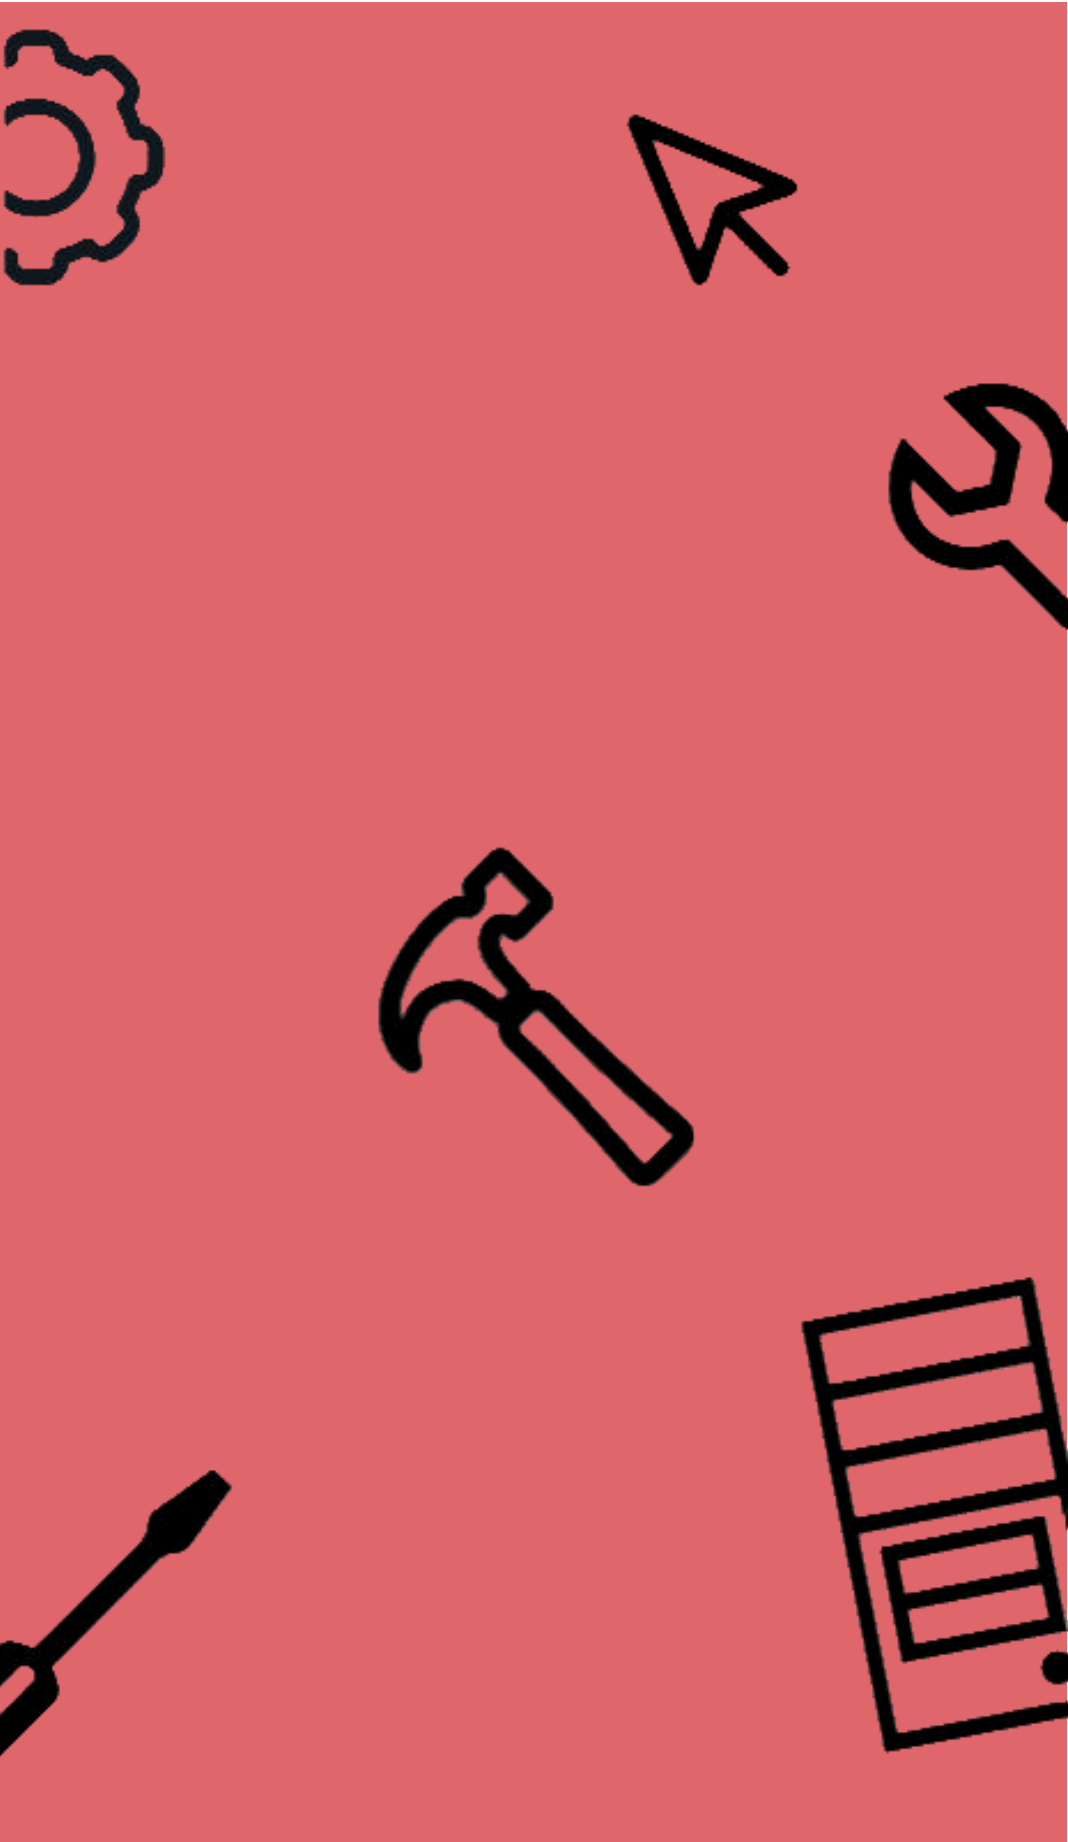
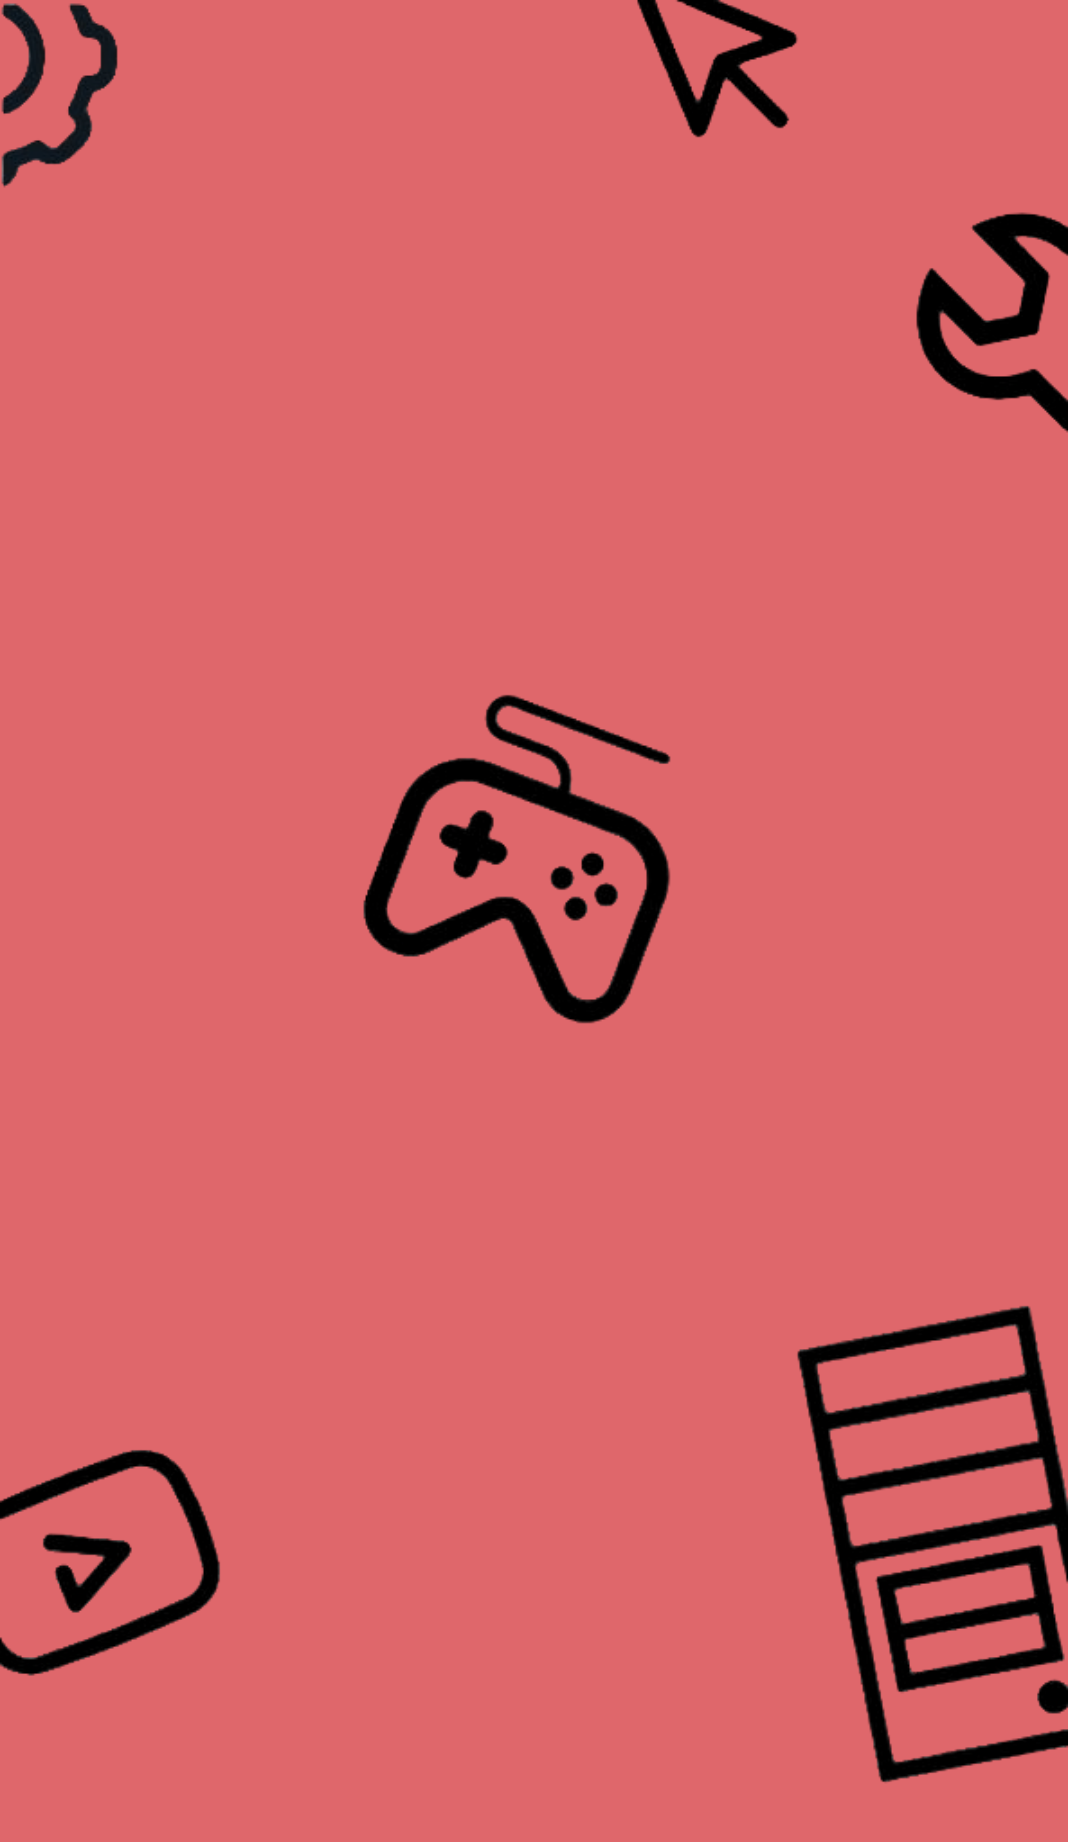
Atualizado imagem de fundo, base configurações da telaPecas adicionadas

diff --git a/Telas/RecomendadosTela.js b/Telas/RecomendadosTela.js
@@ -10,7 +10,56 @@ const RecomendadosTela = ({navigation}) => {
     <SafeAreaView style={styles.tela}>
       <SafeAreaView style={styles.conteudo}>
         <ImageBackground source={image} resizeMode="cover" style={styles.backgroundImage}>
-        <Text style={{color: 'white', fontSize: 45, marginLeft:'auto', marginRight: 'auto'}}>Recomendados</Text>
+        <Text style={{textAlign: 'center', color: 'black', fontSize: 22, marginLeft:'5%', marginRight: '5%', marginTop: 25, marginBottom: 10}}>Recomendamos esses 
+Pcs, agora basta escolher!</Text>
+          
+          <View style={{borderWidth: 5, margin: 5, backgroundColor: 'white', padding: 8}}>
+              <TouchableOpacity 
+              style={stylesRecomendados.configBarata}
+              onPress={() => navigation.navigate('Pecas')}
+              >
+                <Image source={require('../Imagens/menu.png')} style={{margin: 5,width: 110, height: '100%'}}></Image>
+                <View styles={stylesRecomendados.detalhesConfigBarata}>
+                  <Text>tipo</Text>
+                  <Text>descrição</Text>
+                  <Text>icone</Text>
+                  <Text>favoritar</Text>
+                </View>
+              </TouchableOpacity>
+          </View>
+
+          <View style={{borderWidth: 5, margin: 5, backgroundColor: 'white', padding: 8}}>
+              <TouchableOpacity 
+              style={stylesRecomendados.configMediana}
+              onPress={() => navigation.navigate('Pecas')}
+              >
+                <Image source={require('../Imagens/menu.png')} style={{margin: 5,width: 110, height: '100%'}}></Image>
+                <View styles={stylesRecomendados.detalhesConfigMediana}>
+                  <Text>tipo</Text>
+                  <Text>descrição</Text>
+                  <Text>icone</Text>
+                  <Text>favoritar</Text>
+                </View>
+              </TouchableOpacity>
+          </View>
+          
+          <View style={{borderWidth: 5, margin: 5, backgroundColor: 'white', padding: 8}}>
+              <TouchableOpacity 
+              style={stylesRecomendados.configDesempenho}
+              onPress={() => navigation.navigate('Pecas')}
+              >
+                <Image source={require('../Imagens/menu.png')} style={{margin: 5,width: 110, height: '100%'}}></Image>
+                <View styles={stylesRecomendados.detalhesConfigDesempenho}>
+                  <Text>tipo</Text>
+                  <Text>descrição</Text>
+                  <Text>icone</Text>
+                  <Text>favoritar</Text>
+                </View>
+              </TouchableOpacity>
+          </View>
+
+          
+
         </ImageBackground>
       </SafeAreaView>
 
@@ -21,16 +70,23 @@ const RecomendadosTela = ({navigation}) => {
           >
           <Text style={{color: 'black'}}>Voltar</Text>
         </TouchableOpacity>
-
-        <TouchableOpacity 
-          style={styles.botaoProximo}
-          onPress={() => navigation.navigate('Pecas')}
-          >
-          <Text style={{color: 'white'}}>Proxima</Text>
-        </TouchableOpacity>
       </SafeAreaView>
     </SafeAreaView>
 );
 }
 
 export default RecomendadosTela
+
+const stylesRecomendados = StyleSheet.create({
+  configBarata: {
+    flexDirection: 'row', 
+  },
+  
+  configMediana: {
+    flexDirection: 'row', 
+  },
+  
+  configDesempenho: {
+    flexDirection: 'row', 
+  },
+})

diff --git a/Constantes/Styles.js b/Constantes/Styles.js
@@ -17,7 +17,7 @@ export default StyleSheet.create({
     
     backgroundImage: {
         width: '100%', 
-        height: '96%'
+        height: '97%'
     },
 
     tela: {
@@ -32,27 +32,26 @@ export default StyleSheet.create({
     rodape: {
         flexDirection: 'row', 
         justifyContent: 'space-evenly',
-        padding: 8,
+        padding: 12,
         height: 80,
         width: '100%',
         backgroundColor: Cores.primary,
-        borderWidth: 2,
-        borderRadius: 5,
+        borderTopWidth: 2,
     }, 
     botaoVoltar:{
+        flexGrow: 1,
+        marginRight: 5,
+        backgroundColor: 'white',
+        justifyContent: "center",
         alignItems: "center",
         borderRadius: 7,
-        padding: 18,
-        flexGrow: 1,
-        backgroundColor: 'white',
-        marginRight: 5
+        borderWidth: 1,
     },
     botaoProximo:{
-        alignItems: "center",
-        borderRadius: 7,
-        padding: 18,
         flexGrow: 1,
-        backgroundColor: 'black'
+        backgroundColor: 'black',
+        justifyContent: "center",
+        alignItems: 'center',
+        borderRadius: 7,
     },
-    
 });

diff --git a/Telas/Modelo.js b/Telas/Modelo.js
@@ -1,0 +1,19 @@
+import * as React from 'react';
+import {SafeAreaView , Button, Image, StyleSheet, TouchableOpacity, Text, View, ImageBackground } from 'react-native';
+import Cores from '../Constantes/Cores';
+import styles from '../Constantes/Styles'
+import {Feather} from 'react-native-vector-icons';
+
+const image = require('../Imagens/Fundo.png');
+
+const modelo = ({navigation}) => {
+    return (
+        <SafeAreaView style={styles.tela}>
+            <SafeAreaView style={styles.conteudo}>
+                <ImageBackground source={image} resizeMode="cover" style={styles.backgroundImage}>
+                
+                </ImageBackground>
+            </SafeAreaView>
+      </SafeAreaView>
+    );
+}
